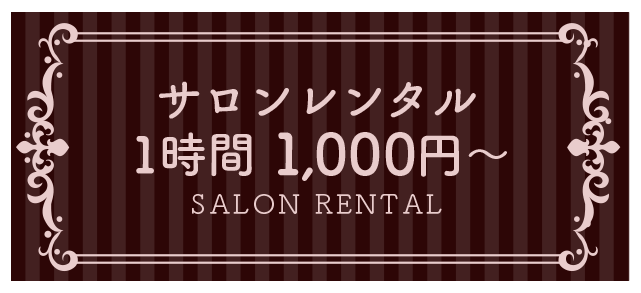
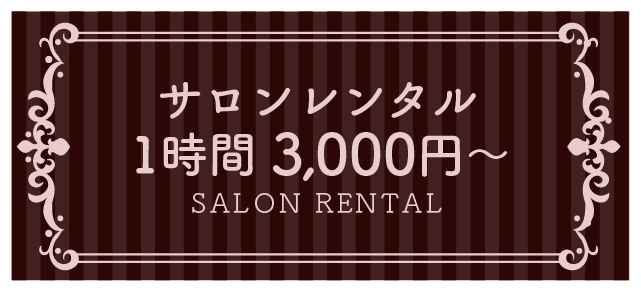
公開中backup_180112

diff --git a/menu/fasting/index.html b/menu/fasting/index.html
@@ -62,7 +62,7 @@ $(function(){
 		<div id="subImg" class="menuImg">
 			<div class="subTitle_container">
 			</div>
-			<p class="subTitle">酵素ファスティング</p>
+			<p class="subTitle">食べるファスティング</p>
 		</div>
 
 		<div id="wrapper">
@@ -79,7 +79,7 @@ $(function(){
 				</li>
 				<li itemscope="itemscope" itemtype="http://data-vocabulary.org/Breadcrumb">
 					<a href="./" itemprop="url">
-					<span itemprop="title">酵素ファスティング</span>
+					<span itemprop="title">食べるファスティング</span>
 					</a>
 				</li>
 			</ul>
@@ -104,7 +104,7 @@ $(function(){
 						</ul>
 					</div>
 				</div>
-
+				
 				<div class="main_container">
 					<div class="main_title">
 						<div class="title1">&nbsp;</div>
@@ -116,7 +116,7 @@ $(function(){
 						<p class="main_img"><img src="../../../images/menu_fasting.png" class="image"></p>
 					</div>
 				</div>
-
+				
 			</div>
 
 			<!-- Menu -->

diff --git a/footer.html b/footer.html
@@ -9,10 +9,7 @@
 				<!-- <span class="footer_text_small">DAMMY&nbsp;DAMMY&nbsp;DAMMY</span> -->
 			</p>
 			<p>〒108-0075&nbsp;東京都港区港南4</p>
-			<p>TEL.<span class="footer_text_large">070-1305-0708</span><br />受付時間(10:00～20:00)</p>
-		</div>
-		<div>
-			<a href="https://ameblo.jp/dearness-beauty" target="_blank"><img src="http://dearness.co/images/banner_blog.png" alt="" class="footer_link" /></a>
+			<p>TEL.<span class="footer_text_large">03-6869-8071</span><br />受付時間(10:00～20:00)</p>
 		</div>
 	</div>
 	<a href="http://dearness.co/reservation/"><img src="http://dearness.co/images/online.png" alt="オンライン予約" class="online_btn" /></a>

diff --git a/menu/menu.html b/menu/menu.html
@@ -55,7 +55,7 @@
 					<li>
 						<div class="shop_menu_img bg05">
 							<div class="shop_menu_img_container">
-								<div class="menu_title1">&nbsp;</div><p>酵素<br />ファスティング<br /><span>33,300</span><span class="menu_price">&nbsp;&nbsp;円（税別）／回</span></p>
+								<div class="menu_title1">&nbsp;</div><p>食べる<br />ファスティング<br /><span>33,300</span><span class="menu_price">&nbsp;&nbsp;円（税別）／回</span></p>
 									<div class="menu_title2">&nbsp;</div>
 								</div>
 							</div>

diff --git a/about/index.html b/about/index.html
@@ -106,7 +106,7 @@ $(function(){
 					<div class="title2">&nbsp;</div>
 				</div>
 				<div class="main_text">
-					<p>施術やセミナースペースとしてご活用いただけます。（1時間 1,000円〜）　まずはお問い合わせください。</p>
+					<p>施術やセミナースペースとしてご活用いただけます。（1時間 3,000円〜）　まずはお問い合わせください。</p>
 					<p class="main_img"><img src="images/concept02.png" class="image"></p>
 				</div>
 			</div>

diff --git a/css/base.css b/css/base.css
@@ -26,10 +26,6 @@ body{
 	margin:0!important;
 }
 
-.bx-wrapper img{
-	height:auto !important;
-}
-
 .bxslider {
 	padding:0;
 }
@@ -497,11 +493,6 @@ span.footer_text_large{
 .footer_banner img.footer_ban_img{
 	width:90%;
 	padding-top:1%;
-}
-
-.footer_link{
-	width:230px;
-	margin-bottom:30px;
 }
 
 .copyRight {

diff --git a/analytics.php b/analytics.php
@@ -1,0 +1,9 @@
+<!-- Global site tag (gtag.js) - Google Analytics -->
+<script async src="https://www.googletagmanager.com/gtag/js?id=UA-107989578-1"></script>
+<script>
+  window.dataLayer = window.dataLayer || [];
+  function gtag(){dataLayer.push(arguments);}
+  gtag('js', new Date());
+
+  gtag('config', 'UA-107989578-1');
+</script>
